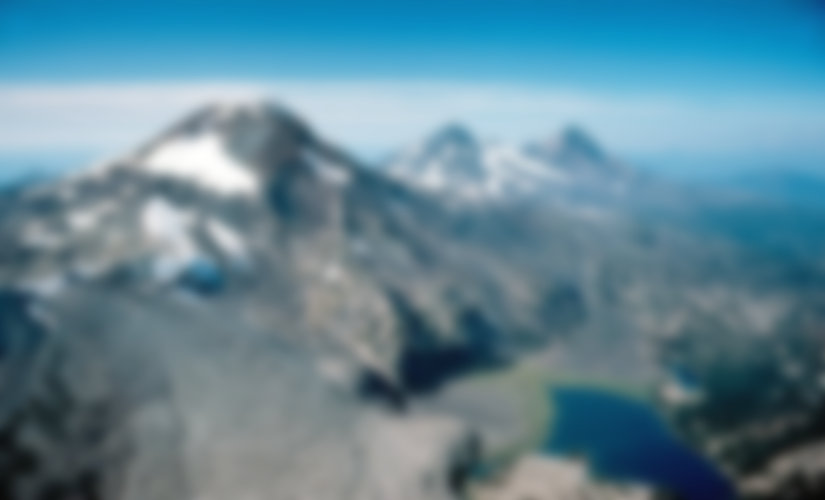
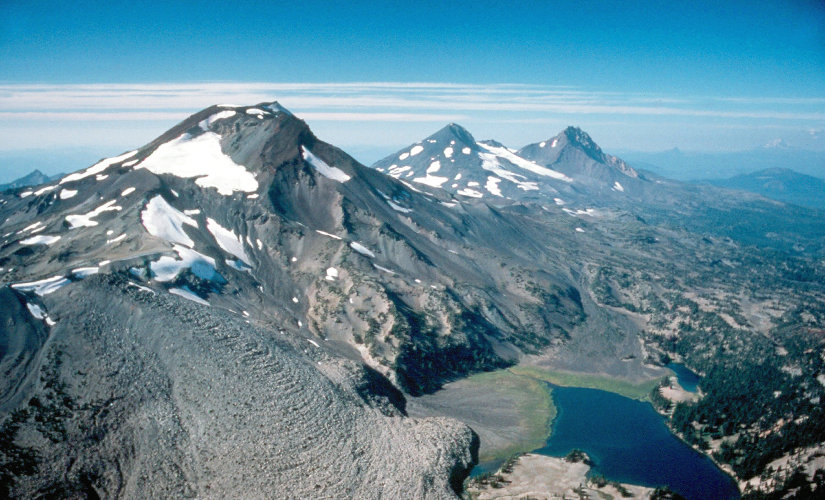
progressive blur

diff --git a/triple_peaks.js b/triple_peaks.js
@@ -36,15 +36,12 @@ var Position = (function (win) {
     };
 
     Position.prototype.remove = function () {
-        console.log('removing', this.toString());
         var coverer = this;
         this.covering.forEach(function (covered) {
-            console.log('it covered', covered.toString());
             covered.covered_by = covered.covered_by.filter(function (position) {
                 return position !== coverer;
             });
             if (covered.covered_by.length === 0) {
-                console.log('covered is now not covered by anything');
                 covered.backToFront(covered.div);
             }
         }, this);
@@ -62,9 +59,9 @@ var Position = (function (win) {
 
     Position.prototype.draw = function () {
         if (this.isCovered()) {
-            this.div = Card.drawBack.call(this, this.x, this.y, this.div);
+            this.div = Card.drawBack.call(this, this.x + 8, this.y + 2, this.div);//, $('.container')[0]);
         } else {
-            this.div = Card.prototype.draw.call(this, this.x, this.y, this.div);
+            this.div = Card.prototype.draw.call(this, this.x + 8, this.y + 2, this.div);//, $('.container')[0]);
         }
     };
 
@@ -200,6 +197,7 @@ var Game = (function (win) {
 
         this.draw();
         $('.card').click(click_handler.bind(this));
+        $('.container').css('-webkit-filter', 'grayscale(1.0) blur(5.6px)');
     };
 
     Game.prototype.draw = function () {
@@ -224,12 +222,10 @@ var Game = (function (win) {
         var current_div = this.up_card.div;
         this.up_card = new_up_card;
         var dist = distance(new_up_card, this.up_card_position);
-        console.log('animating for', dist / this.speed);
         $(new_up_card.div).animate({
             top: this.up_card_position.y + 'px',
             left: this.up_card_position.x + 'px'
         }, dist / this.speed * 1000, function () {
-            console.log('animation done');
             $(current_div).remove();
         });
     };
@@ -243,7 +239,6 @@ var Game = (function (win) {
 
     Game.prototype.update = function () {
         this.draw();
-        win.console.log('Score:', this.score);
         if (this.positions.length === 0) {
             this.next_peak -= 250;
             this.score += 1000; // round bonus
@@ -259,8 +254,15 @@ var Game = (function (win) {
             }, this);
             if (!not_over) {
                 win.console.log('\n\n\nGAME OVER\n\n\n');
-                var $game_over = $('<div>').addClass('game_over').text('Game Over');
-                $('body').append($game_over);
+                var $game_over = $('<div>').addClass('game_over').text('Game Over').css('visibility', 'hidden');
+                $('.container').append($game_over);
+                var width = $game_over.width();
+                var height = $game_over.height();
+                $game_over.css({
+                    top: (500 - height) / 2,
+                    left: (825 - width) / 2,
+                    visibility: 'visible'
+                });
                 this.started = false;
                 $game_over.click(function () {
                     $game_over.remove();
@@ -280,7 +282,6 @@ var Game = (function (win) {
             new_up_card = this.deck.drawOne();
             pos = $(this.deck_div).position();
             new_up_card.setDrawLocation(pos.left, pos.top);
-            console.log('draw on deck', new_up_card);
             new_up_card.draw();
             this.replaceUpCard(new_up_card);
             this.update();
@@ -305,10 +306,10 @@ var Game = (function (win) {
                 this.score += this.next_peak;
                 this.next_peak += 250;
             }
-            console.log('card clicked, removing', this.positions[position_index].toString());
             this.positions[position_index].remove();
             new_up_card = this.positions.splice(position_index, 1);
             this.replaceUpCard(new_up_card[0]);
+            $('.container').css('-webkit-filter', 'grayscale(' + (this.positions.length / 28) + ') blur(' + (this.positions.length * 0.2) + 'px)');
             this.update();
             return false;
         }
@@ -330,7 +331,7 @@ var Game = (function (win) {
         $('.streak').remove();
         $('.score').remove();
         $('.round').remove();
-        $('body')
+        $('.hud')
             .append($('<div>')
                     .addClass('streak')
                     .append(this.$streak))

diff --git a/triple_peaks.css b/triple_peaks.css
@@ -1,13 +1,29 @@
 body {
+    padding: 0;
+    margin: 0;
+}
+
+.container {
     background: no-repeat url(Three_Sisters.jpg);
+    width: 825px;
+    height: 500px;
+    padding: 0;
+    margin: 0;
+}
+
+.hud {
+    position: absolute;
+    top: 0;
+    left: 0;
+    width: 825px;
+    text-align: center;
 }
 
 .streak {
-    position: absolute;
-    top: 0px;
-    left: 0px;
+    float: left;
     max-height: 24px;
     padding: 2px;
+    margin: 2px;
     border: 1px solid black;
     border-radius: 6px;
 }
@@ -17,11 +33,10 @@ body {
 }
 
 .score {
-    position: absolute;
-    top: 0px;
-    left: 360px;
+    display: inline-block;
     max-height: 24px;
     padding: 2px;
+    margin: 2px;
     border: 1px solid black;
     border-radius: 6px;
 }
@@ -31,11 +46,10 @@ body {
 }
 
 .round {
-    position: absolute;
-    top: 0px;
-    left: 760px;
+    float: right;
     max-height: 24px;
     padding: 2px;
+    margin: 2px;
     border: 1px solid black;
     border-radius: 6px;
 }
@@ -46,8 +60,6 @@ body {
 
 .game_over {
     position: absolute;
-    top: 175px;
-    left: 360px;
     padding: 8px;
     line-height: 64px;
     font-size: 58px;

diff --git a/index.html b/index.html
@@ -9,6 +9,8 @@
     <link rel="stylesheet" type="text/css" href="triple_peaks.css"/>
   </head>
   <body>
+    <div class='container'></div>
+    <div class='hud'></div>
     <script type="text/javascript">
         var game = new Game();
         game.start();
